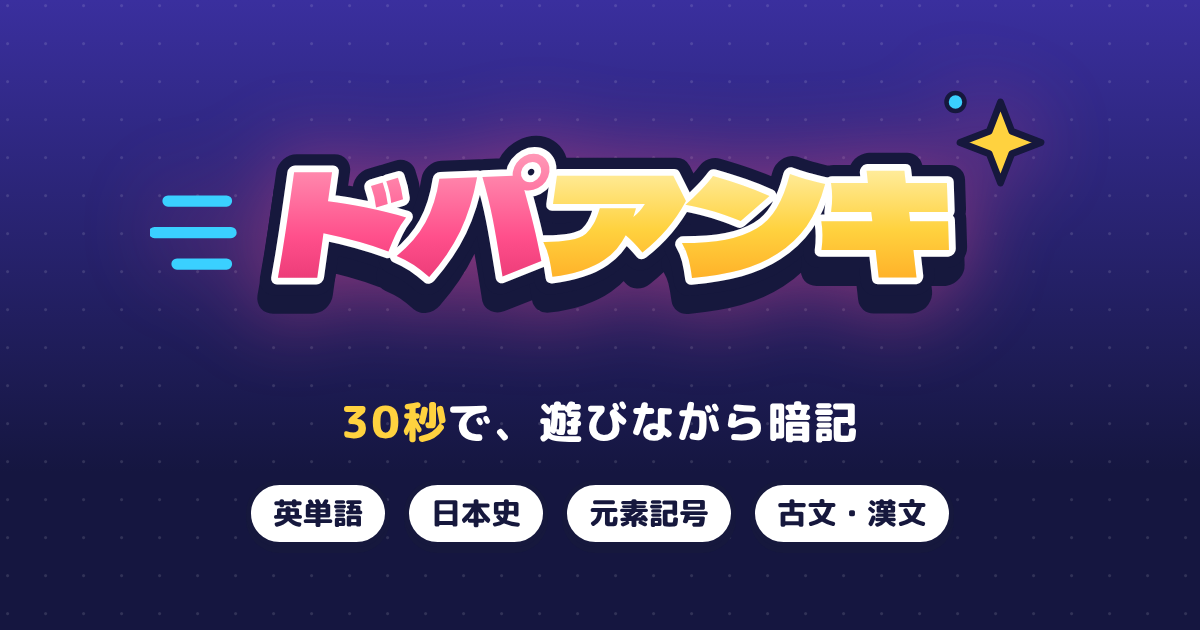
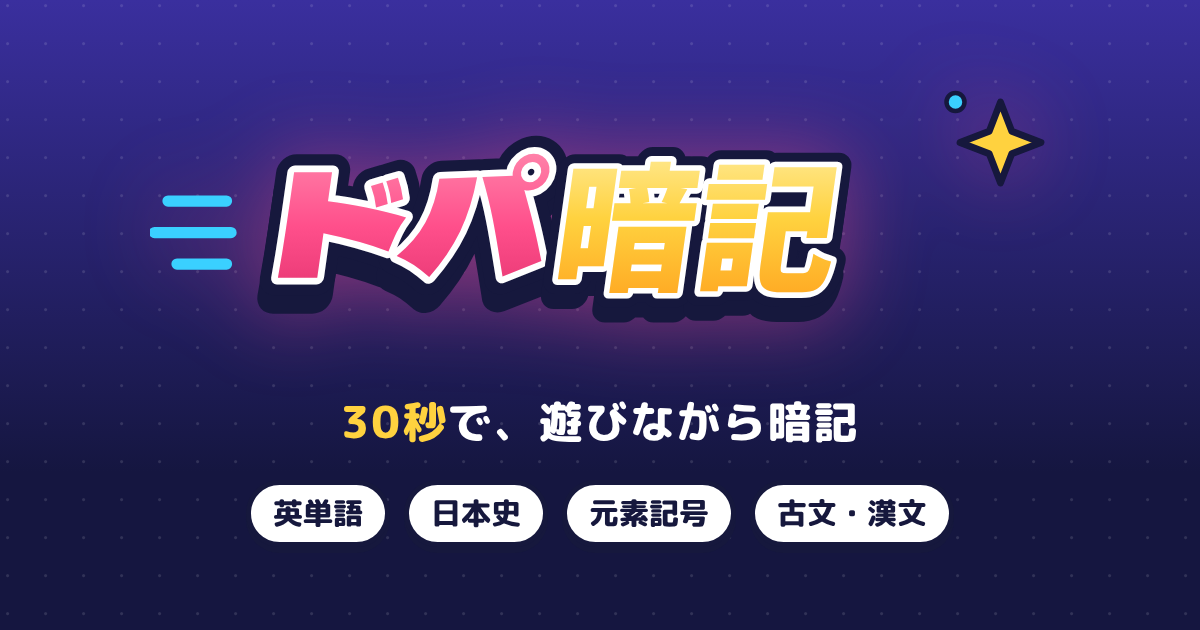
ランキングタブ追加、30秒化、ドパ暗記に改名、700問追加ほか
Claude-Session: https://claude.ai/code/session_01E8fwYPTLtVLdEsEfw6wpWd

Changed region(s): [[0.4317, 0.2111, 0.8325, 0.5429], [0.4317, 0.4825, 0.4625, 0.5127]]

diff --git a/index.html b/index.html
@@ -2,11 +2,11 @@
 <html lang="ja">
 <head>
 <meta charset="utf-8">
-<title>ドパアンキ</title>
+<title>ドパ暗記</title>
 <meta name="viewport" content="width=device-width,initial-scale=1,viewport-fit=cover">
 <meta name="theme-color" content="#151640">
 <meta name="description" content="30秒で暗記バトル。英単語・日本史・元素記号・古文・漢文を、スワイプで遊びながら覚える中高生向け暗記ゲーム。">
-<meta property="og:title" content="ドパアンキ">
+<meta property="og:title" content="ドパ暗記">
 <meta property="og:description" content="30秒で暗記バトル。まちがえた問題は解説と再挑戦で確実に覚える。">
 <meta property="og:type" content="website">
 <meta property="og:image" content="/og.png">
@@ -19,7 +19,7 @@
 </head>
 <body>
 <link rel="preconnect" href="https://fonts.googleapis.com">
-<link rel="stylesheet" href="https://fonts.googleapis.com/css2?family=Dela+Gothic+One&family=M+PLUS+Rounded+1c:wght@700;800&family=Zen+Kaku+Gothic+New:wght@500;700&display=swap">
+<link rel="stylesheet" href="https://fonts.googleapis.com/css2?family=Dela+Gothic+One&family=Mochiy+Pop+One&family=M+PLUS+Rounded+1c:wght@700;800&family=Zen+Kaku+Gothic+New:wght@500;700&display=swap">
 <style>
 /* Layout: mobile-game shell. Night-sky backdrop, player status bar on top, content in light panels with thick outlines, bottom tab bar. Deliberately single-theme. */
 :root{
@@ -203,8 +203,8 @@ button:focus-visible{outline:3px solid var(--gold);outline-offset:3px}
 @keyframes glow{50%{box-shadow:0 5px 0 var(--ink),0 0 26px rgba(255,79,139,.7)}}
 .row{display:grid;grid-template-columns:1fr 1fr;gap:10px}
 /* tab bar */
-.tabbar{display:grid;grid-template-columns:repeat(5,1fr);gap:4px;background:rgba(10,12,40,.75);border-top:2px solid rgba(255,255,255,.14);margin-inline:-12px;padding:6px 8px calc(6px + env(safe-area-inset-bottom,0px))}
-.tabbar button{background:none;border:0;color:#9ea1d6;display:grid;justify-items:center;gap:2px;font-size:.62rem;padding:4px 0;border-radius:12px}
+.tabbar{display:grid;grid-template-columns:repeat(6,1fr);gap:4px;background:rgba(10,12,40,.75);border-top:2px solid rgba(255,255,255,.14);margin-inline:-12px;padding:6px 8px calc(6px + env(safe-area-inset-bottom,0px))}
+.tabbar button{background:none;border:0;color:#9ea1d6;display:grid;justify-items:center;gap:2px;font-size:.58rem;white-space:nowrap;min-width:0;letter-spacing:-.02em;padding:4px 0;border-radius:12px}
 .tabbar svg{width:24px;height:24px}
 .tabbar button[aria-current="page"]{color:var(--gold);background:rgba(255,207,58,.12)}
 /* game */
@@ -897,7 +897,7 @@ const IC={
  back:'<svg viewBox="0 0 24 24" width="22" height="22" fill="none" stroke="currentColor" stroke-width="3" stroke-linecap="round" stroke-linejoin="round"><path d="M15 5l-7 7 7 7"/></svg>'};
 function shell(cur,body){
   app.innerHTML=`<div class="view">${body}</div>
-  <nav class="tabbar">${[["home","ホーム"],["his","振り返り"],["lib","図鑑"],["me","マイページ"],["set","設定"]].map(([k,l])=>`<button data-nav="${k}" ${k===cur?'aria-current="page"':""}>${IC[k]}${l}</button>`).join("")}</nav>`;
+  <nav class="tabbar">${[["home","ホーム"],["rank","ランキング"],["his","振り返り"],["lib","図鑑"],["me","マイページ"],["set","設定"]].map(([k,l])=>`<button data-nav="${k}" ${k===cur?'aria-current="page"':""}>${IC[k]}${l}</button>`).join("")}</nav>`;
   app.querySelectorAll("[data-nav]").forEach(b=>b.onclick=()=>{sfx.tap();({home,his:()=>history("all"),lib:()=>library(deckKey==="daily"?pool("mix"):pool(),"図鑑","lib"),rank:()=>ranking("day"),me:mypage,set:settings})[b.dataset.nav]()});
 }
 function hbar(t){return `<div class="hbar"><button class="back" id="bk" aria-label="もどる">${IC.back}</button><h2>${t}</h2></div>`}
@@ -998,17 +998,15 @@ function home(){
   clearInterval(tick);g=null;screen="home";document.body.classList.remove("fever");bumpDays();
   const dDone=S.get("nj_dailydone","")===today(),dItems=dailyItems();
   shell("home",`
-   <h1 class="dlogo" aria-label="ドパアンキ"><svg viewBox="0 0 400 124" role="img" aria-hidden="true">
+   <h1 class="dlogo" aria-label="ドパ暗記"><svg viewBox="0 0 400 124" role="img" aria-hidden="true">
      <defs>
       <linearGradient id="lgP" x1="0" y1="0" x2="0" y2="1"><stop offset="0" stop-color="#ff9ab8"/><stop offset=".55" stop-color="#ff4f8b"/><stop offset="1" stop-color="#e0306c"/></linearGradient>
       <linearGradient id="lgG" x1="0" y1="0" x2="0" y2="1"><stop offset="0" stop-color="#fff4b8"/><stop offset=".5" stop-color="#ffd23f"/><stop offset="1" stop-color="#ff9f1c"/></linearGradient>
      </defs>
      <g class="spd" stroke="#3ad0ff" stroke-width="5" stroke-linecap="round"><path d="M8 52h26M2 66h34M12 80h22"/></g>
-     <g transform="skewX(-8) translate(18 0)" font-family="Dela Gothic One, sans-serif" font-size="62" letter-spacing="-1">
-      <text x="44" y="94" fill="#16183d" stroke="#16183d" stroke-width="16" stroke-linejoin="round">ドパ<tspan fill="#16183d">アンキ</tspan></text>
-      <text x="44" y="86" fill="#16183d" stroke="#16183d" stroke-width="16" stroke-linejoin="round">ドパ<tspan>アンキ</tspan></text>
-      <text x="44" y="86" stroke="#fff" stroke-width="6" stroke-linejoin="round" fill="#fff">ドパ<tspan>アンキ</tspan></text>
-      <text x="44" y="86"><tspan fill="url(#lgP)">ドパ</tspan><tspan fill="url(#lgG)">アンキ</tspan></text>
+     <g transform="skewX(-8) translate(18 0)" font-family="Dela Gothic One, sans-serif" letter-spacing="-1">
+      <g font-size="62"><text x="44" y="94" fill="#16183d" stroke="#16183d" stroke-width="16" stroke-linejoin="round">ドパ</text><text x="44" y="86" fill="#16183d" stroke="#16183d" stroke-width="16" stroke-linejoin="round">ドパ</text><text x="44" y="86" stroke="#fff" stroke-width="6" stroke-linejoin="round" fill="#fff">ドパ</text><text x="44" y="86" fill="url(#lgP)">ドパ</text></g>
+      <g font-size="62" letter-spacing="1" font-family="Mochiy Pop One, Dela Gothic One, sans-serif"><text x="172" y="94" fill="#16183d" stroke="#16183d" stroke-width="13" stroke-linejoin="round">暗記</text><text x="172" y="87" fill="#16183d" stroke="#16183d" stroke-width="13" stroke-linejoin="round">暗記</text><text x="172" y="87" stroke="#fff" stroke-width="5" stroke-linejoin="round" fill="#fff">暗記</text><text x="172" y="87" fill="url(#lgG)">暗記</text></g>
      </g>
      <g class="spk"><path d="M378 8l5 13 13 5-13 5-5 13-5-13-13-5 13-5z" fill="#ffd23f" stroke="#16183d" stroke-width="3" stroke-linejoin="round"/><circle cx="358" cy="8" r="4" fill="#3ad0ff" stroke="#16183d" stroke-width="2"/></g>
     </svg></h1>
@@ -1068,13 +1066,13 @@ async function ranking(tab){
   screen="rank";
   const body=list=>`${hbar("ランキング")}
    <div class="panel tabs">${[["day","今日"],["xp","累計EXP"],["all","全ゲーム"]].map(([k,l])=>`<button class="tab" data-r="${k}" aria-pressed="${k===tab}">${l}</button>`).join("")}</div>${list}`;
-  shell("me",body(`<p class="empty">読み込み中...</p>`));
-  const wire=()=>{on("bk",mypage);app.querySelectorAll("[data-r]").forEach(b=>b.onclick=()=>ranking(b.dataset.r))};wire();
-  if(!DB){shell("me",body(`<p class="empty">ランキングは準備中です。通信できる状態で開き直してください。</p>`));wire();return}
-  if(!nick()){shell("me",body(nickForm("ランキングに表示する名前を決めよう")));wire();wireNick(()=>ranking(tab));return}
+  shell("rank",body(`<p class="empty">読み込み中...</p>`));
+  const wire=()=>{on("bk",home);app.querySelectorAll("[data-r]").forEach(b=>b.onclick=()=>ranking(b.dataset.r))};wire();
+  if(!DB){shell("rank",body(`<p class="empty">ランキングは準備中です。通信できる状態で開き直してください。</p>`));wire();return}
+  if(!nick()){shell("rank",body(nickForm("ランキングに表示する名前を決めよう")));wire();wireNick(()=>ranking(tab));return}
   await pushRank();
   let rows=tab==="all"?await fetchTotal():await fetchRank();if(screen!=="rank")return;
-  if(!rows){shell("me",body(`<p class="empty">ランキングを読み込めませんでした。少し待ってから開き直してください。</p>`));wire();return}
+  if(!rows){shell("rank",body(`<p class="empty">ランキングを読み込めませんでした。少し待ってから開き直してください。</p>`));wire();return}
   rows=tab==="day"?rows.filter(r=>r.day===today()&&r.dayBest>0).sort((a,b)=>b.dayBest-a.dayBest):rows.filter(r=>r.xp>0).sort((a,b)=>b.xp-a.xp);
   rows=rows.slice(0,50);
   if(screen!=="rank")return;
@@ -1085,7 +1083,7 @@ async function ranking(tab){
     <span class="val">${esc(tab==="day"?r.dayBest:r.xp)}<small>${tab==="day"?"点":"EXP"}</small></span></div>`).join("")}</div>
    <p class="empty" style="margin:4px 0">${tab==="day"?"今日のスコアは毎日0時にリセット":tab==="all"?"同じ端末で遊んだ、すべてのゲームのEXPの合計":""}</p>`
    :`<p class="empty">${tab==="day"?"今日はまだ誰も遊んでいません。1位を取るチャンスです。":"まだ記録がありません。"}</p><button class="btn go" id="go">START</button>`;
-  shell("me",body(list));wire();on("go",countdown);
+  shell("rank",body(list));wire();on("go",countdown);
   app.querySelectorAll(".rk .nm").forEach((el,i)=>{const r=rows[i];el.textContent=r.nickname||"プレイヤー"});
 }
 

diff --git a/README.md b/README.md
@@ -1,6 +1,6 @@
-# ドパアンキ 公開手順
+# ドパ暗記 公開手順
 
-このフォルダの中身が「ドパアンキ」のサイト一式です。
+このフォルダの中身が「ドパ暗記」のサイト一式です。
 
 | ファイル | 中身 |
 |---|---|
